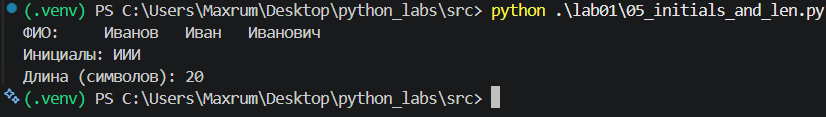
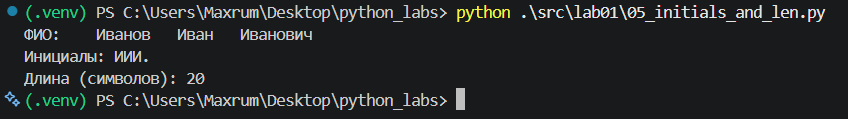
я добавил точку

diff --git a/src/lab01/06_participants.py b/src/lab01/06_participants.py
@@ -1,10 +1,12 @@
-N = int(input())
+i=1
+N = int(input(f'in_{i}: '))
 true=false=0
 for n in range(N):
-    person = input()
+    i+=1
+    person = input(f'in_{i}: ')
     type = person.split()[-1]
     if type == 'True':
         true += 1
     else:
         false += 1
-print(true, false)
+print('out:', true, false)

diff --git a/src/lab01/03_discount_vat.py b/src/lab01/03_discount_vat.py
@@ -1,4 +1,4 @@
-price, discount, vat = float(input('Цена: ')), float(input('Скидка: ')), float(input('НДС: '))
+price, discount, vat = float(input('price=')), float(input('discount=')), float(input('vat='))
 base = price * (1 - discount/100)
 vat_amount = base * (vat/100)
 total = base + vat_amount

diff --git a/src/lab01/07_str_recovery.py b/src/lab01/07_str_recovery.py
@@ -1,4 +1,4 @@
-string = input()
+string = input('in: ')
 for i in range(len(string)):
     if string[i].isupper():
         start=i
@@ -13,4 +13,4 @@ for i in range(start, len(string), step):
     res += string[i]
     if string[i] == '.':
         break
-print(res)
+print('out:', res)

diff --git a/src/lab01/05_initials_and_len.py b/src/lab01/05_initials_and_len.py
@@ -1,5 +1,5 @@
 fio = input('ФИО: ').split()
-initials = ''.join(x[0] for x in fio)
+initials = ''.join(x[0] for x in fio)+'.'
 length = sum(len(x) for x in fio)
 print(f"Инициалы: {initials}")
 print(f"Длина (символов): {length+2}")
